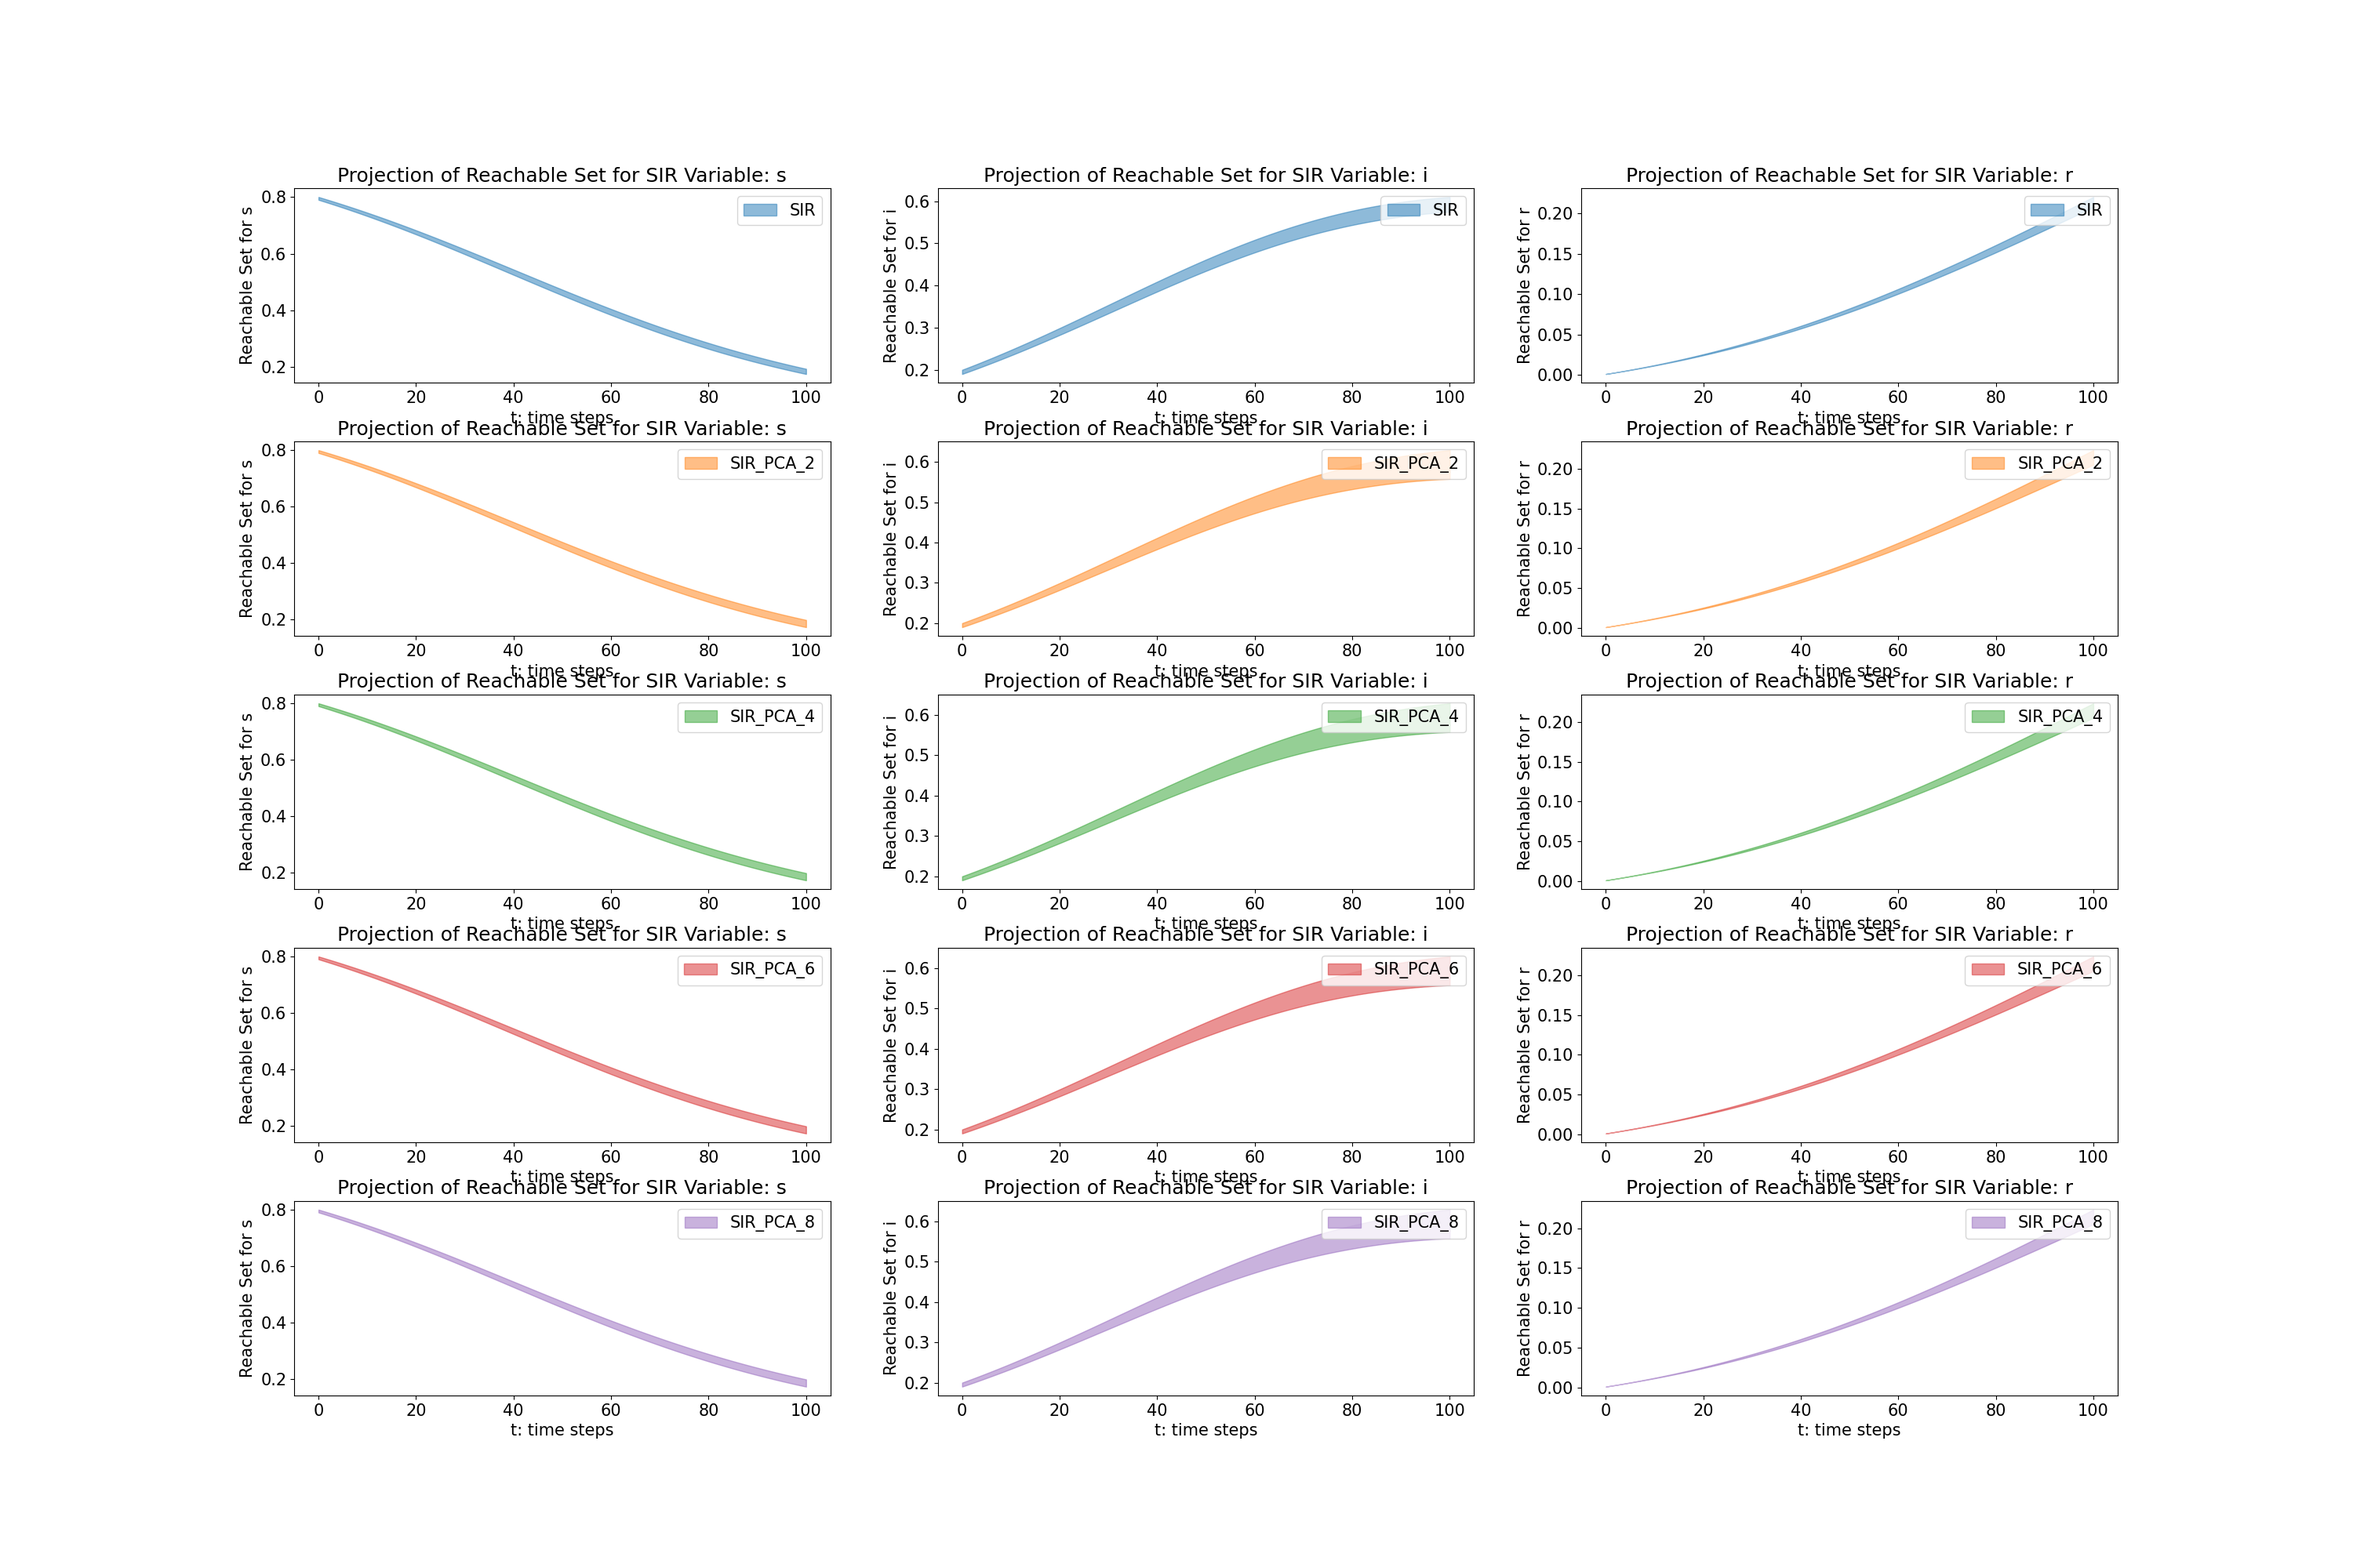
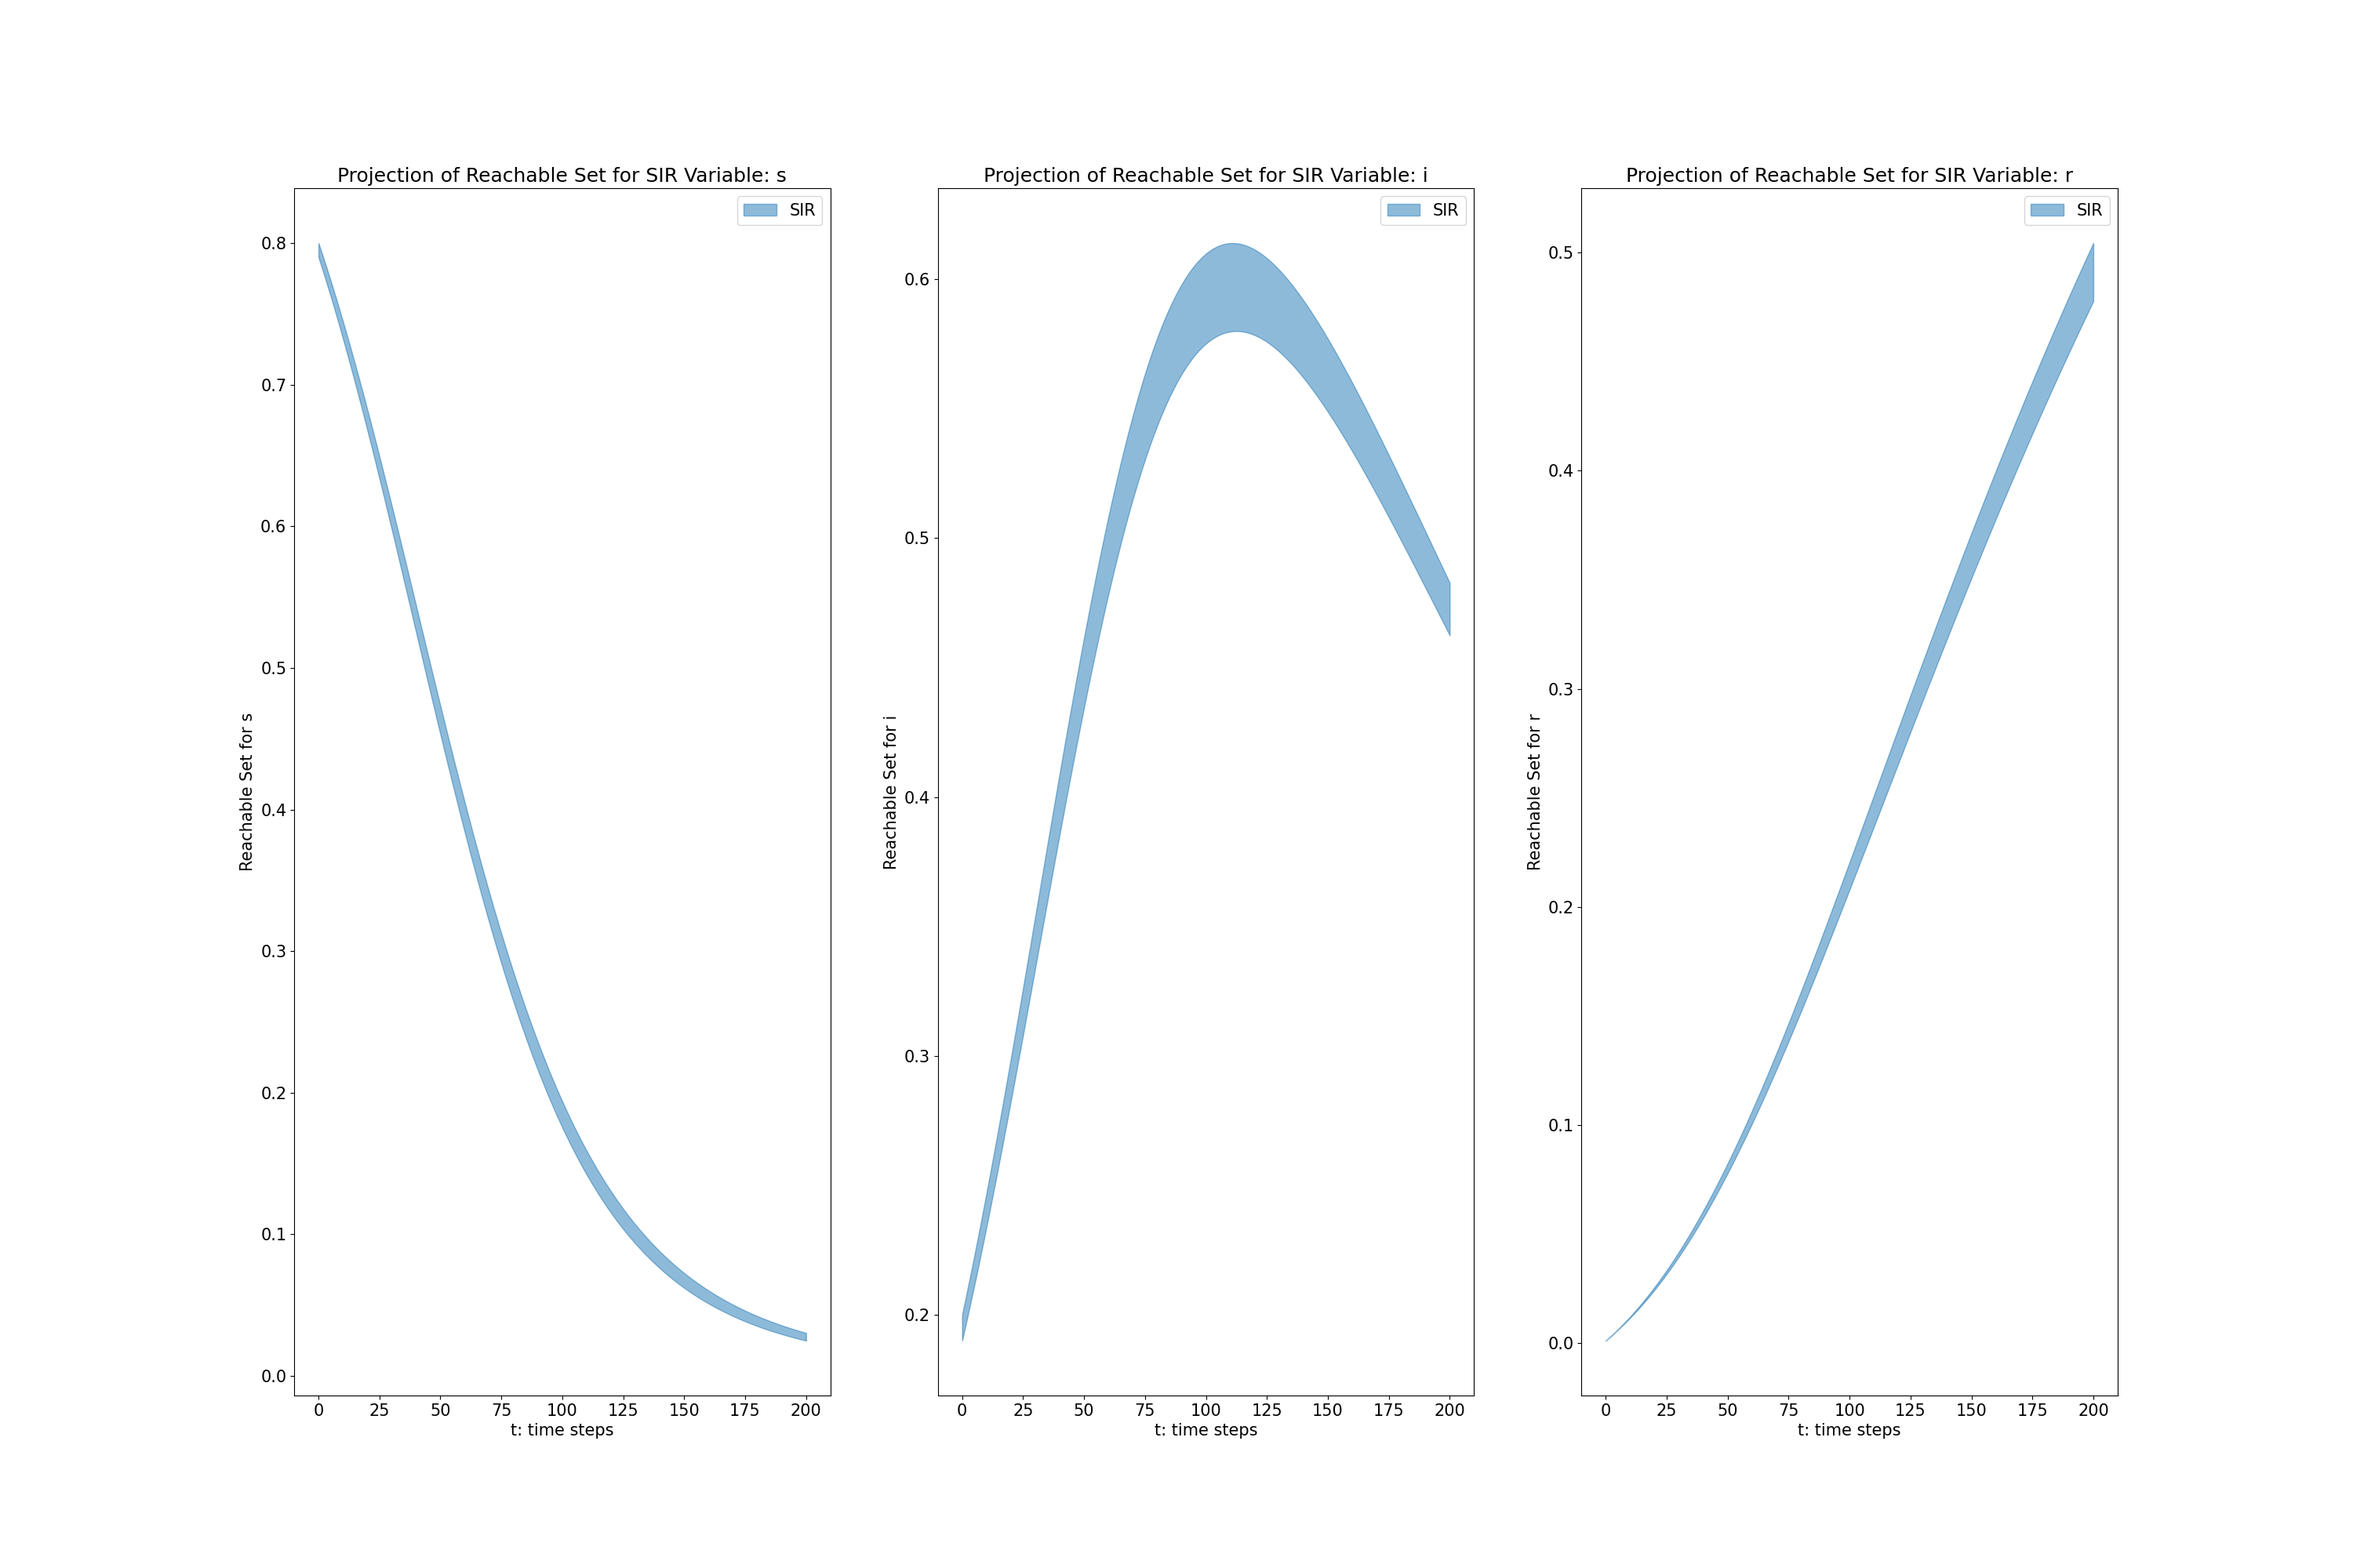
Added a toggle of AFO/OFO modes. User can supply AFO/OFO modes into ReachSet.computeReachSet().

diff --git a/kaa/bundle.py b/kaa/bundle.py
@@ -1,6 +1,8 @@
 import numpy as np
 import sympy as sp
 
+from enum import Enum
+
 from kaa.parallelotope import Parallelotope
 from kaa.lputil import minLinProg, maxLinProg
 from kaa.settings import KaaSettings
@@ -129,12 +131,26 @@ class Bundle:
         return Bundle(self.model, new_T, new_L, new_offu, new_offl)
 
 """
+Wrapper over bundle transformation modes.
+"""
+class BundleMode(Enum):
+    AFO = 0
+    OFO = 1
+
+"""
 Object responsible for transforming Bundle objects according to input model's dynamics.
 """
 class BundleTransformer:
 
-    def __init__(self, model):
+    """
+    Constuctor for BundleTransformer
+    @params mode: mode for performing bundle transformations.
+    A value of BundleMode.OFO (1) indicates using the One-for-One transformation method.
+    Otherwise, a value of BundleMode.AFO (0) indicates using the All-for-One transformation method.
+    """
+    def __init__(self, model, mode):
         self.f = model.f
+        self.ofo_mode = mode
 
     """
     Transforms the bundle according to the dynamics governing the system. (dictated by self.f)
@@ -161,7 +177,13 @@ class BundleTransformer:
             fog = [ func.subs(var_sub, simultaneous=True) for func in self.f ]
             Timer.stop('Functional Composition')
 
-            for column in row.astype(int):
+
+            'Toggle iterators between OFO/AFO'
+            'Warning: assuming for now that all directions are used in defining templates.'
+            direct_iter = row.astype(int) if self.ofo_mode else \
+                           range(self.num_direct)
+
+            for column in direct_iter:
                 curr_L = bund.L[column]
 
                 'Perform functional composition with exact transformation from unitbox to parallelotope.'
@@ -170,9 +192,9 @@ class BundleTransformer:
                     bound_polyu += coeff * fog[coeff_idx]
 
                 'Calculate min/max Bernstein coefficients.'
-                Timer.start('Kodiak Computation')
+                Timer.start('Bound Computation')
                 ub, lb = OptProd(bound_polyu, bund).getBounds()
-                Timer.stop('Kodiak Computation')
+                Timer.stop('Bound Computation')
 
                 new_offu[column] = min(ub, new_offu[column])
                 new_offl[column] = min(-1 * lb, new_offl[column])

diff --git a/kaa/reach.py b/kaa/reach.py
@@ -1,7 +1,7 @@
 from termcolor import colored 
 
 from kaa.timer import Timer
-from kaa.bundle import Bundle, BundleTransformer
+from kaa.bundle import Bundle, BundleTransformer, BundleMode
 from kaa.flowpipe import FlowPipe
 from kaa.settings import KaaSettings
 
@@ -24,11 +24,11 @@ class ReachSet:
             TempStrat: template loading strategy to use during this reachable set computation.
     @returns FlowPipe object with computed flowpipe
     """
-    def computeReachSet(self, time_steps, TempStrat=None):
+    def computeReachSet(self, time_steps, tempstrat=None, transmode=BundleMode.OFO):
 
         initial_set = self.model.bund
-        transformer = BundleTransformer(self.model)
-        strat = TempStrat if TempStrat is not None else DefaultStrat(self.model)
+        transformer = BundleTransformer(self.model, transmode)
+        strat = tempstrat if tempstrat is not None else DefaultStrat(self.model)
         flowpipe = [initial_set]
 
 

diff --git a/tests/models/test_sir.py b/tests/models/test_sir.py
@@ -5,12 +5,14 @@ from models.sir import SIR, SIR_UnitBox
 from kaa.timer import Timer
 from kaa.experiutil import generate_traj
 
+from kaa.bundle import BundleMode
+
 def test_SIR():
 
     model = SIR()
     #trajs = generate_traj(model, 10, 200)
     mod_reach = ReachSet(model)
-    mod_flow = mod_reach.computeReachSet(200)
+    mod_flow = mod_reach.computeReachSet(200, transmode=BundleMode.AFO)
 
     sir_plot = Plot()
     #trajs = generate_traj(model, 10, 200)
